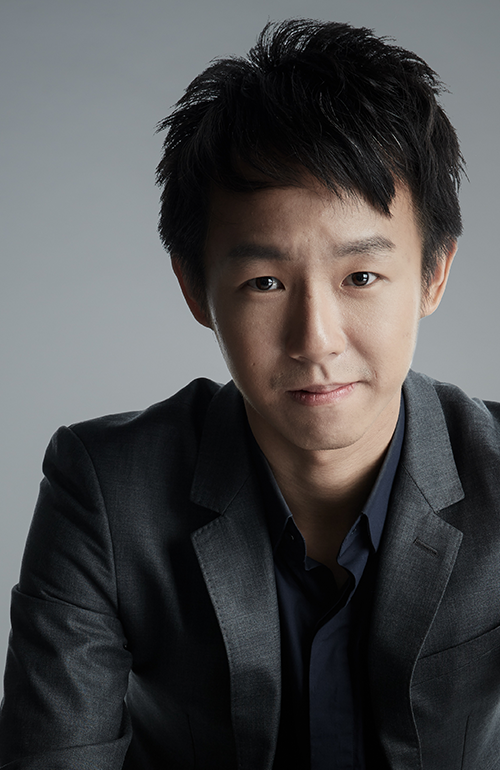
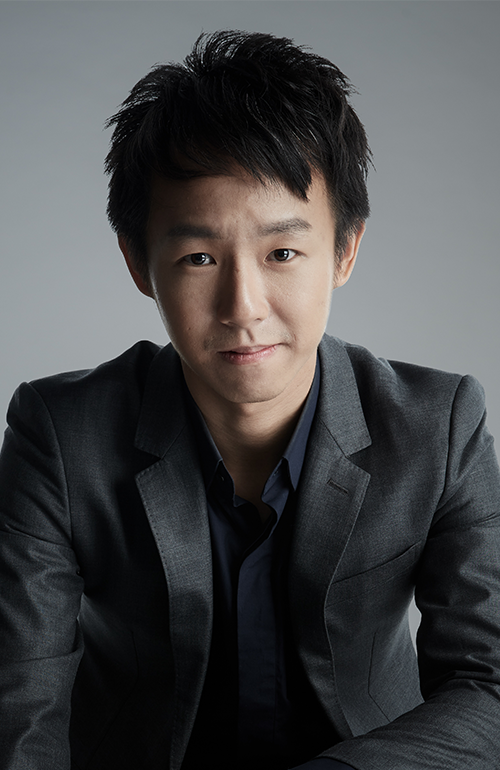
edit image

diff --git a/public/index.html b/public/index.html
@@ -183,7 +183,7 @@
           <div class='modal-hide-container' id='modal-link--board2'>
             <div class='modal-hide'>
               <div class='x-modal'><img src='./images/closeButtonBlack.png' /></div>
-              <div class="board-person-image" style='background-image:url("./images/girl.png")'></div>
+              <div class="board-person-image" style='background-image:url("./images/Panjaluck_Website (560x770px)_04-4-2 Board Profile คุณจีน่า_r11_bo.png")'></div>
               <div class="board-detail modal-content">
                 <img src='./images/left-quote.png' width="35"/>
                 <p>
@@ -310,7 +310,7 @@
                       </div>
                     </div>
                     <div class="board-card col-sm-4">
-                      <a href="#modal-link--board2" class='modal-trigger' style='background-image:url("./images/girl.png")'></a>
+                      <a href="#modal-link--board2" class='modal-trigger' style='background-image:url("./images/Panjaluck_Website (560x770px)_04-3-2 Board Profile คุณจีน่า_r11_bo.png")'></a>
                       <div class="board-detail">
                         <div class='board-detail-name'>
                           <span class="board-thai-name">จินา โอสถศิลป์</span>
